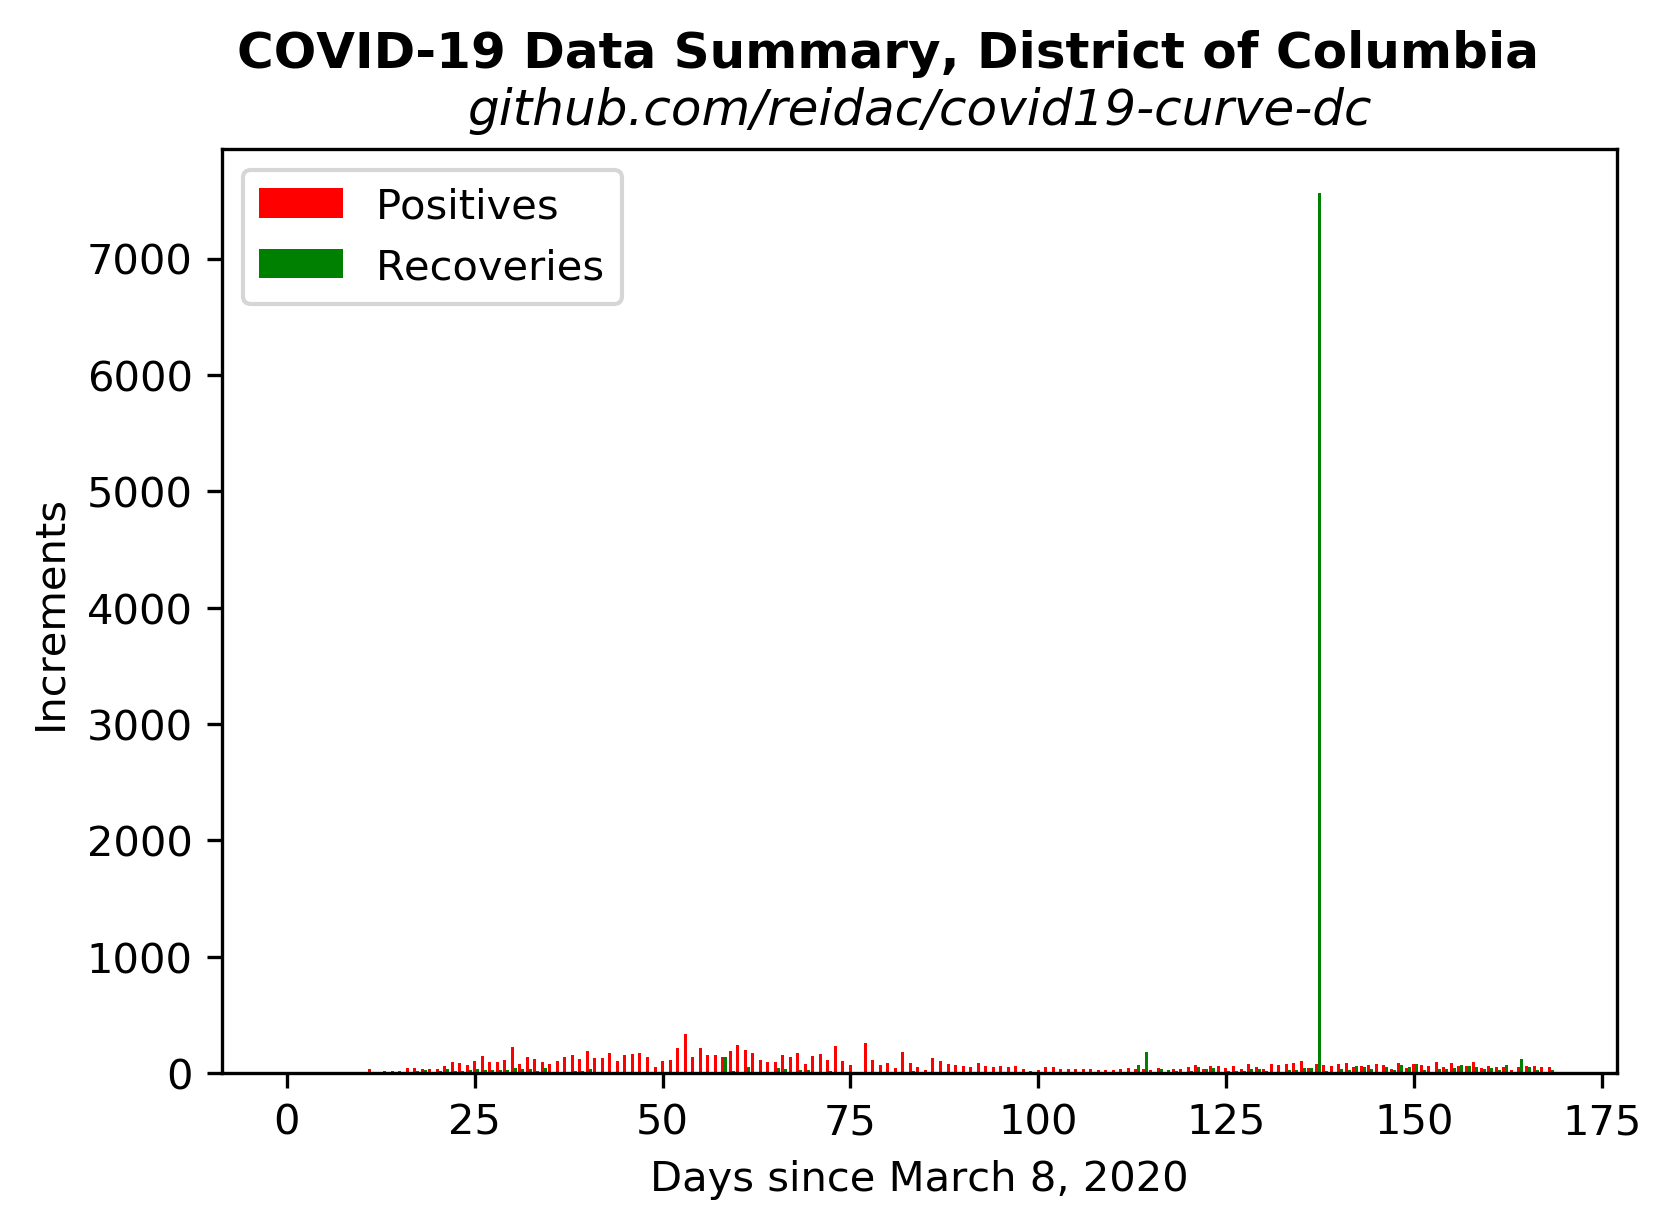
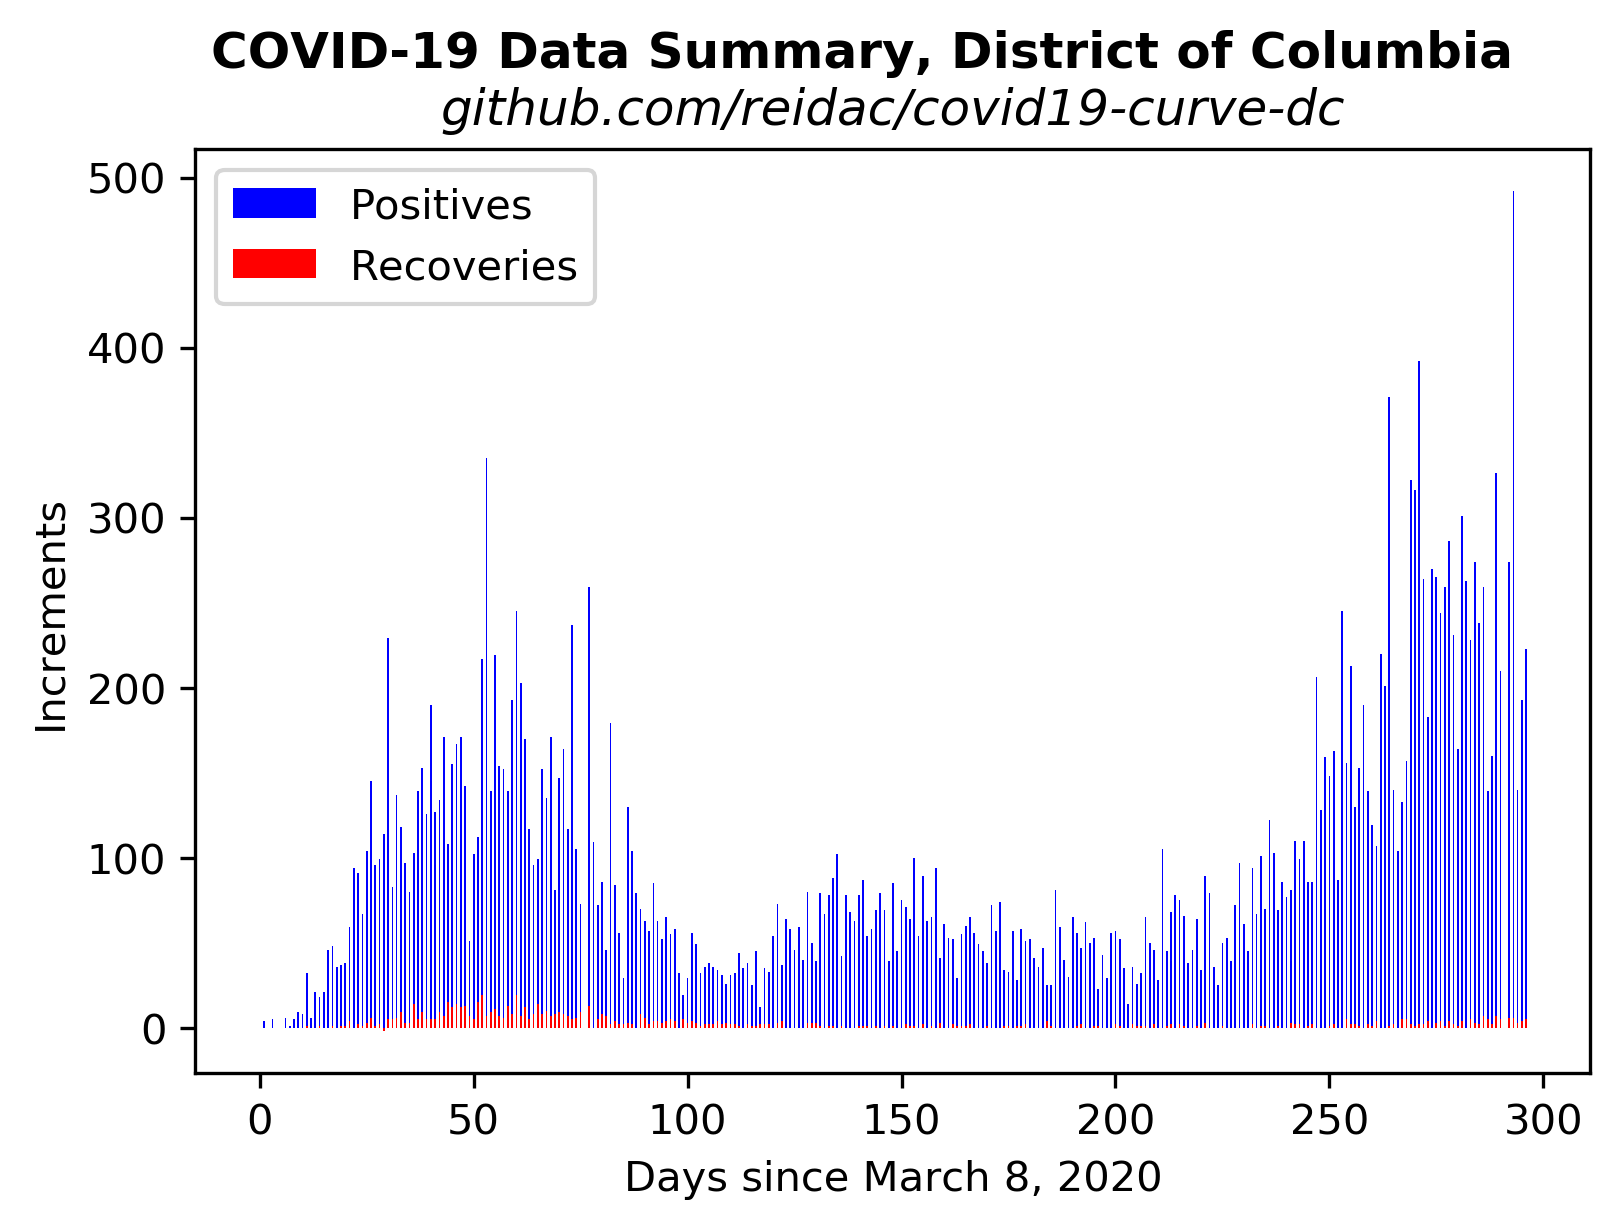
Reviving the bar-graph plot.

diff --git a/bars.py b/bars.py
@@ -16,15 +16,15 @@ plt.xlabel("Days since March 8, 2020")
 plt.ylabel("Increments")
 
 inclen = len(casedata.positive)-1
-# total_incs = [casedata.total[i+1]-casedata.total[i] for i in range(inclen)]
-pos_incs = [casedata.positive[i+1]-casedata.positive[i] for i in range(inclen)]
-recov_incs = [casedata.recovered[i+1]-casedata.recovered[i] for i in range(inclen)]
+total_incs = [casedata.positive[i+1]-casedata.positive[i] for i in range(inclen)]
+pos_incs = [casedata.deaths[i+1]-casedata.deaths[i] for i in range(inclen)]
+# recov_incs = [casedata.recovered[i+1]-casedata.recovered[i] for i in range(inclen)]
 
-# plt.bar(casedata.x[:-1],total_incs,color='b',width=0.3)
+plt.bar(casedata.x[:-1],total_incs,color='b',width=0.4)
 plt.bar(casedata.x[:-1],pos_incs,color='r',width=0.4)
-plt.bar(casedata.x[:-1]+0.4,recov_incs,color='g',width=0.4)
+# plt.bar(casedata.x[:-1]+0.4,recov_incs,color='g',width=0.4)
 
-plt.legend(labels=['Positives','Recoveries'])
+plt.legend(labels=['Positives','Deaths'])
 
 if "FIG_PATH" in os.environ:
     fig_path = os.environ['FIG_PATH']
